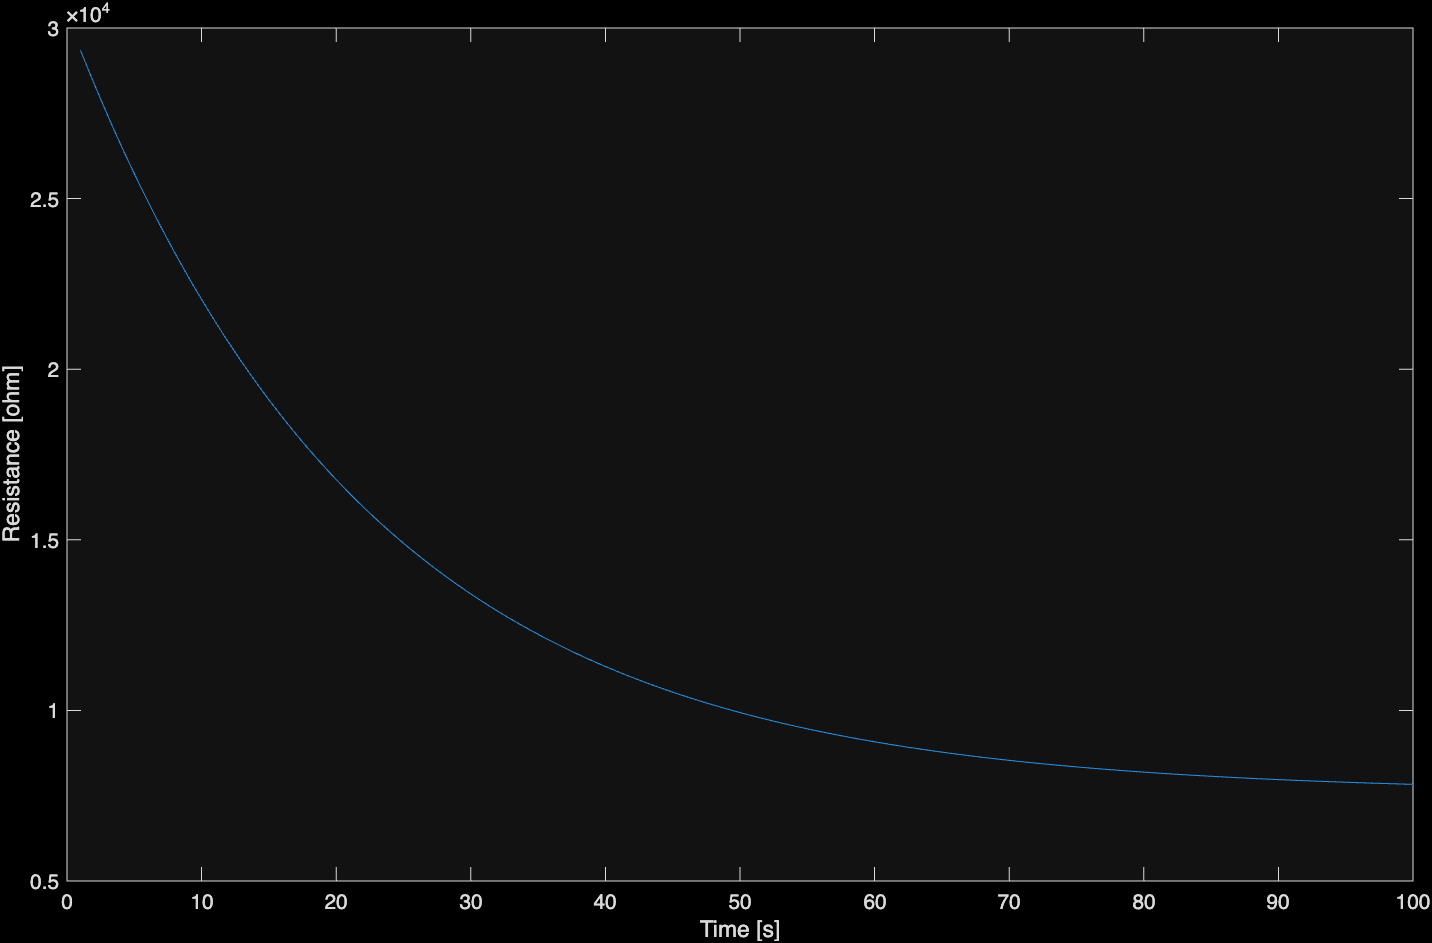
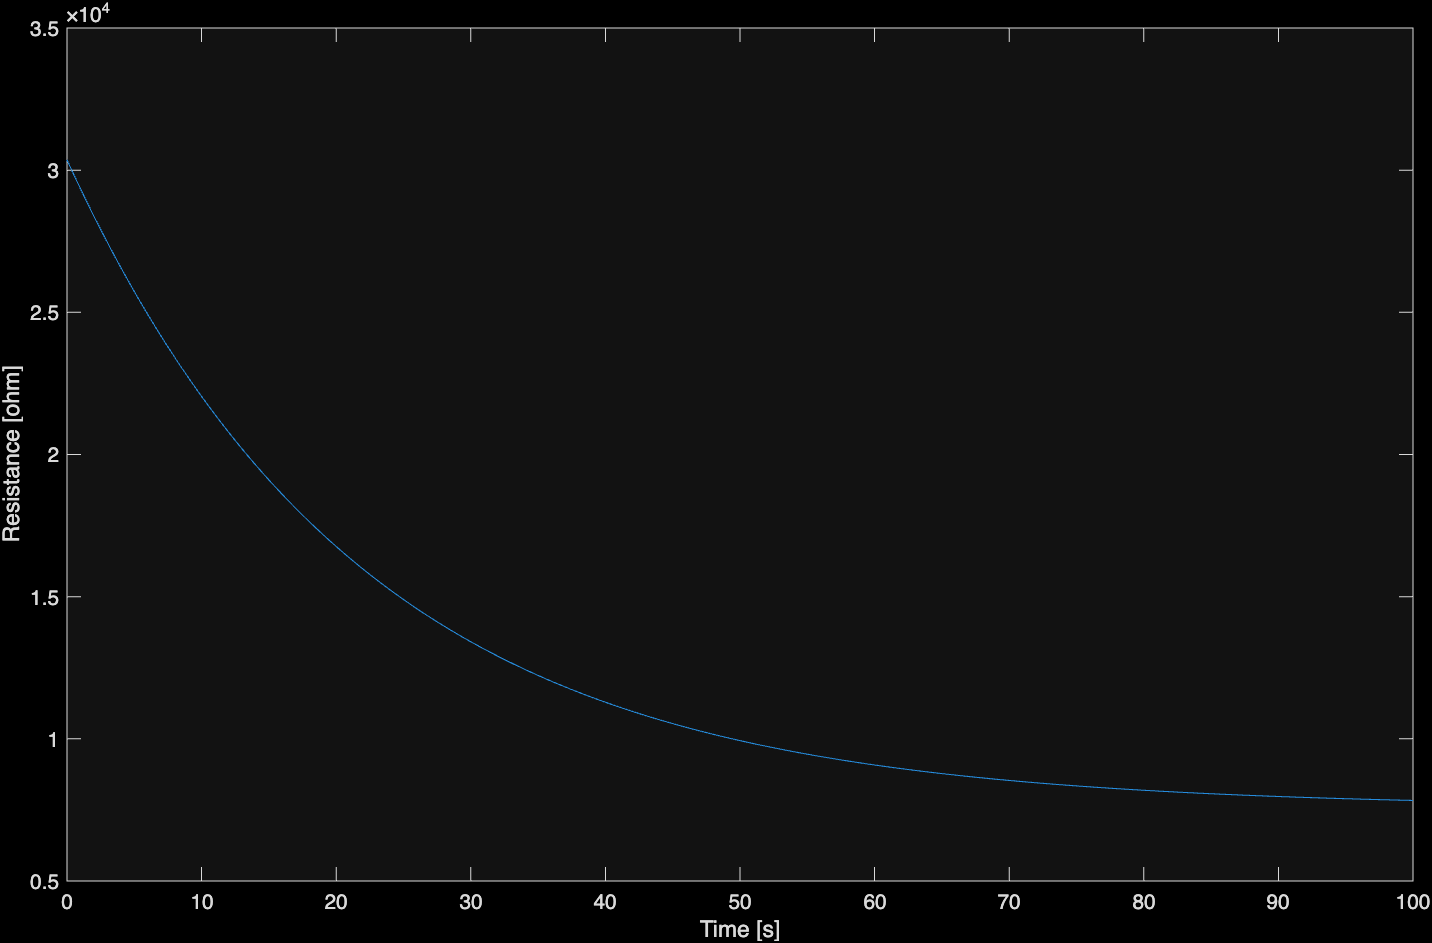
.

diff --git a/Main_Project_1.m b/Main_Project_1.m
@@ -324,13 +324,13 @@ end
 % tau * r'(t) + r(t) = r_inf
 % All initial conditions assumed 0 for initial steps
 tau = 22;
-plots_4 = [0, 0, 1, 1];
+plots_4 = [1, 1, 1, 1];
 
 % 4.i derived in writeup
     % System is time invarient, causual, stable, and linear
     
 %4.ii Unit Step Response, Equation Derived in Writeup
-t = 1:0.01:100;
+t = 0:0.01:100;
 R_Step = 1 - exp(-t/22);
 
 if plots_4(1) ~= 0
@@ -378,3 +378,32 @@ if plots_4(4) ~= 0
     xlabel("Time [s]");
     ylabel("Voltage [v]");
 end
+
+
+
+
+
+
+
+
+
+
+% Problem 5
+
+%5.i For each ADC resolution with N bits there are 2^N levels and the voltage resolution is V_REF/(2^N).
+    
+N8 = 8
+L8 =256 
+DV8= 5/(256) % 0.0195
+
+N10=10 
+L10=1024 
+DV10=5/(1024) % 0.0049
+
+N12=12
+L12=4096
+DV12=5/(4096) % 0.0012
+
+%5.ii vout[n] = vout()
+n = 0
+tS = 0.1
